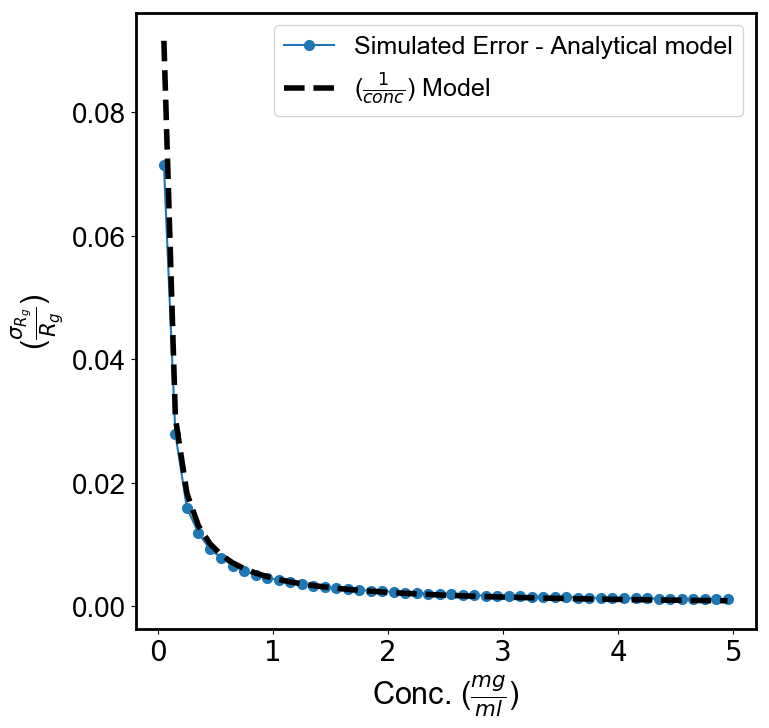
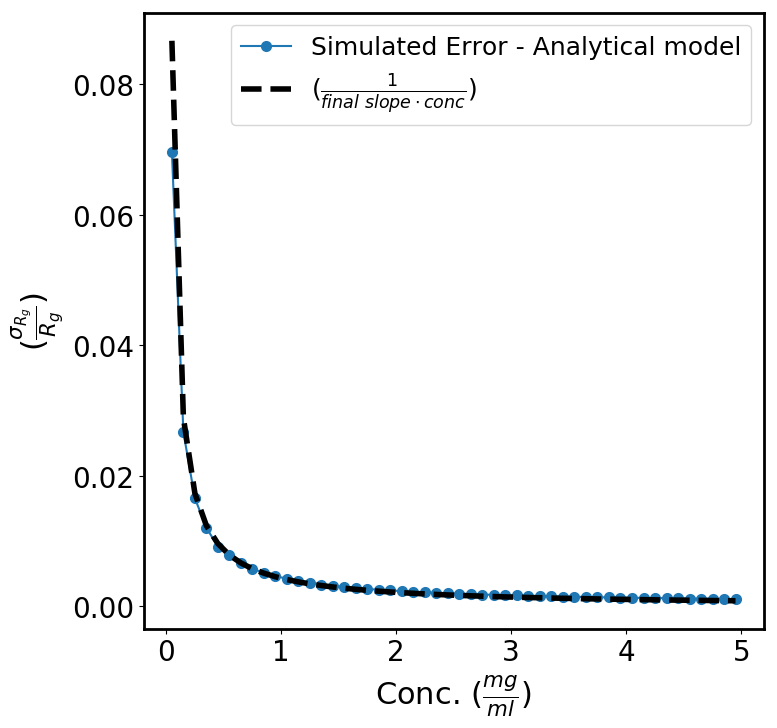
Cleaned up SAXProf_ErrCalcs.py and it's outputs

diff --git a/SAXProf_ErrCalcs.py b/SAXProf_ErrCalcs.py
@@ -16,27 +16,28 @@ class ERRORPROP:
             print(e.args)  # of the instance, and has it printed, and then forces the ValueError to occur.
             raise e
 
-        for c in np.arange(0.05, 5.0, 0.1):
-            saxs1.c = c
 
-            # calculate synthetic curve on buf_model profile generated by simulate_buf
-            I_no_noise = saxs1.I_of_q(saxs1.c, saxs1.mw, saxs1.buf_model_q)
+        self.c = saxs1.c
 
-            # calculate noisy profile on mask_q points that fall within both buf's q range and the specified default_q range (mask_q_short)
-            I_w_noise = saxs1.t * saxs1.pixel_size ** 2 * saxs1.with_noise(saxs1.t, saxs1.buf_model_q, I_no_noise)
+        # calculate synthetic curve on buf_model profile generated by simulate_buf
+        I_no_noise = saxs1.I_of_q(self.c, saxs1.mw, saxs1.buf_model_q)
 
-            # calculated smooth I on default_q (goes all the way to q = 0)
-            I_no_noise = saxs1.t * saxs1.pixel_size ** 2 * I_no_noise
+        # calculate noisy profile on mask_q points that fall within both buf's q range and the specified default_q range (mask_q_short)
+        I_w_noise = saxs1.t * saxs1.pixel_size ** 2 * saxs1.with_noise(saxs1.t, saxs1.buf_model_q, I_no_noise)
 
-            # calculated smooth I and sigma on same q points as I_w_noise
-            I_no_noise_calc = saxs1.Icalc * saxs1.t * saxs1.pixel_size ** 2  # in register with buffer
+        # calculated smooth I on default_q (goes all the way to q = 0)
+        I_no_noise = saxs1.t * saxs1.pixel_size ** 2 * I_no_noise
+
+        # calculated smooth I and sigma on same q points as I_w_noise
+        I_no_noise_calc = saxs1.Icalc * saxs1.t * saxs1.pixel_size ** 2  # in register with buffer
+
 
         self.c = np.arange(0.05, 5.0, 0.1)
         self.I_no_noise = I_no_noise
         self.I_w_noise = I_w_noise
         self.I_no_noise_calc = I_no_noise_calc
 
-    def calc_errRg(self, imin = [], imax = []):
+    def calc_errRg_conc(self, imin = [], imax = []):
         saxs1 = self.saxs1
         I_w_noise = self.I_w_noise
         conc = []
@@ -81,7 +82,7 @@ class ERRORPROP:
             savelabel = 'No_Label_Provided'
             plt.rc("axes", linewidth=2)
             plt.rc("lines", markeredgewidth=2)
-            plt.rc('font', **{"sans-serif": ["Arial"]})
+            plt.rc('font', **{"sans-serif": ["Helvetica"]})
             fig = plt.figure(figsize=(8, 8))
             ax1 = fig.add_subplot(1, 1, 1)
             for tick in ax1.xaxis.get_major_ticks():
@@ -99,7 +100,7 @@ class ERRORPROP:
         else:
             plt.rc("axes", linewidth=2)
             plt.rc("lines", markeredgewidth=2)
-            plt.rc('font', **{"sans-serif": ["Arial"]})
+            plt.rc('font', **{"sans-serif": ["Helvetica"]})
             fig = plt.figure(figsize=(8, 8))
             ax1 = fig.add_subplot(1, 1, 1)
             for tick in ax1.xaxis.get_major_ticks():
@@ -122,7 +123,7 @@ class ERRORPROP:
             savelabel = 'No_Label_Provided'
             plt.rc("axes", linewidth=2)
             plt.rc("lines", markeredgewidth=2)
-            plt.rc('font', **{"sans-serif": ["Arial"]})
+            plt.rc('font', **{"sans-serif": ["Helvetica"]})
             fig = plt.figure(figsize=(8, 8))
             ax1 = fig.add_subplot(1, 1, 1)
             for tick in ax1.xaxis.get_major_ticks():
@@ -143,7 +144,7 @@ class ERRORPROP:
         else:
             plt.rc("axes", linewidth=2)
             plt.rc("lines", markeredgewidth=2)
-            plt.rc('font', **{"sans-serif": ["Arial"]})
+            plt.rc('font', **{"sans-serif": ["Helvetica"]})
             fig = plt.figure(figsize=(8, 8))
             ax1 = fig.add_subplot(1, 1, 1)
             for tick in ax1.xaxis.get_major_ticks():

diff --git a/SAXSProf_err.py b/SAXSProf_err.py
@@ -145,7 +145,7 @@ saxs1.load_I(sample_model_1,interpolate=True,q_array = saxs1.default_q)
 ##### Rg Error Modeling #####
 
 err_data = ERRORPROP(saxs1 = saxs1)
-conc, rgError, log_sig = err_data.calc_errRg()
+conc, rgError, log_sig = err_data.calc_errRg_conc()
 
 err_data.plot_S1(conc, [x * 100 for x in rgError],
                  plotlabel = 'Simulated Error - Analytical model', savelabel = 'Simulated_Error_Func_Conc',
@@ -163,7 +163,7 @@ err_data.plot_S1(conc, 1.0/(final_slope*np.array(conc)),
                  xlabel = 'Conc. ($\\frac{mg}{ml}$)', ylabel = 'Model')
 
 err_data.plot_S2(conc, rgError, 1.0/(final_slope*np.array(conc)),
-                 plotlabel1 = 'Simulated Error - Analytical model', plotlabel2 = '($\\frac{1}{conc}$) Model',
+                 plotlabel1 = 'Simulated Error - Analytical model', plotlabel2 = '($\\frac{1}{final \ slope \cdot conc}$)',
                  savelabel = 'Analytical_and_Inv_c_Rg_ErrorModel',
                  xlabel = 'Conc. ($\\frac{mg}{ml}$)', ylabel = '($\\frac{\sigma_{R_{g}}}{R_{g}}$)')
 
@@ -191,25 +191,16 @@ err_data.plot_S2(conc, rgError, 1.0/(final_slope*np.array(conc)),
 #     imax = 90
 #
 #     log_sigma = np.abs(saxs1.sigma/I_w_noise)   # converts sigma of the variable to sigma for log of the variable
-#
 #     (inter,slope,sig2_inter,sig2_slope) = saxs1.lsqfity_with_sigmas(saxs1.buf_model_q[0:imax]**2, np.log(I_w_noise[0:imax]), log_sigma[0:imax])
-#
 #     Rg = np.sqrt(-3*slope)
-#
 #     sig_Rg = np.abs(Rg*np.sqrt(sig2_slope)/(2*slope))    # converts the sigma^2 for the slope to the sigma of Rg
-#
 #     #err_Rg = np.sqrt(-3*err_slope)
-#
 #     # print c,Rg,sig_Rg/Rg,Rg*saxs1.buf_model_q[imax]
-#
 #     conc.append(c)
 #     errRg.append(sig_Rg/Rg)
-#
 # #    errRg.append()
-#
 #     #ax1.set_xlim(5.0,30.0)
 #     #ax1.set_ylim(0.002,0.1)
-#
 # #    plt.plot(saxs1.buf_model_q[0:imax]**2,np.log(I_no_noise[0:imax]),lw=2,
 # #                 label = 'No Noise')
 #
